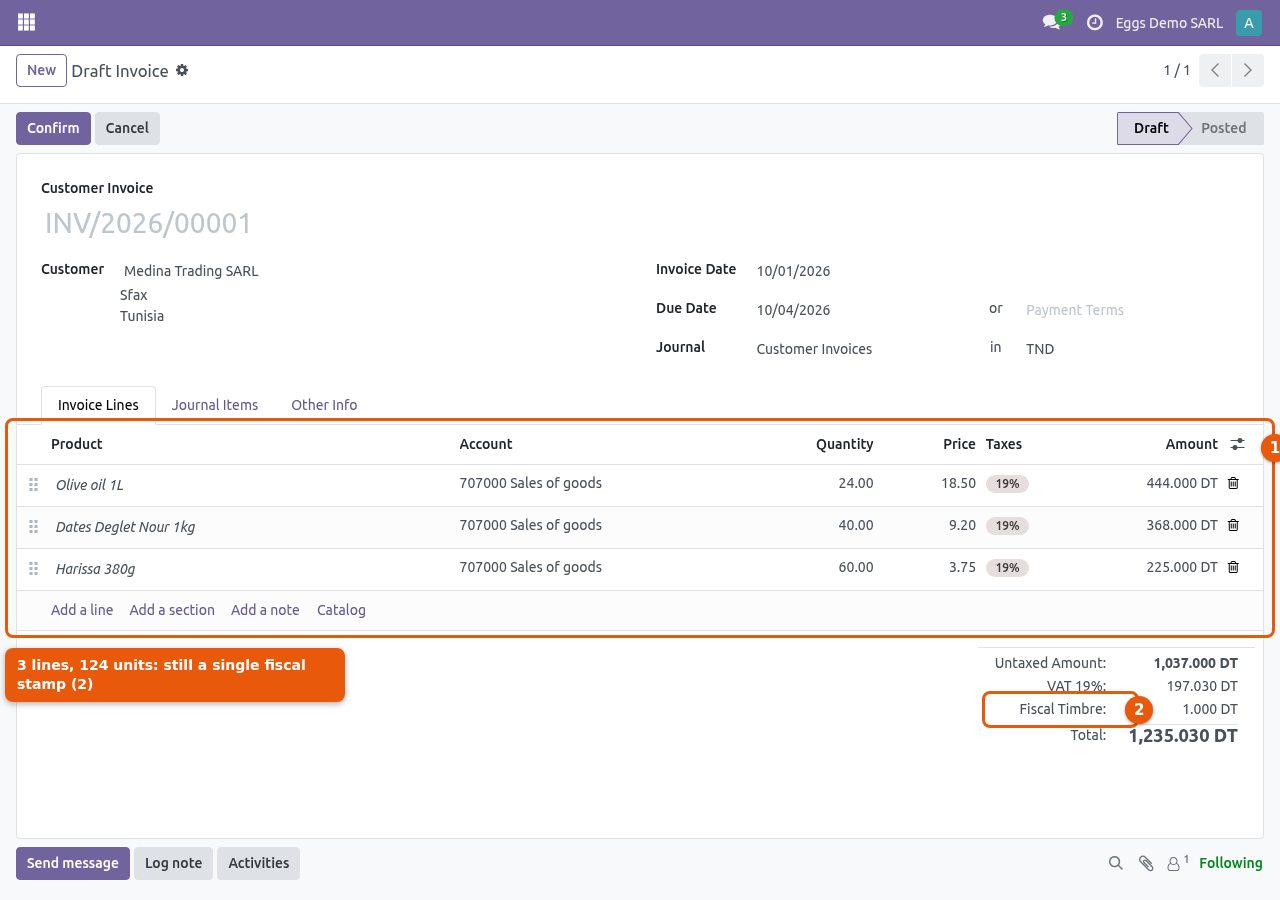
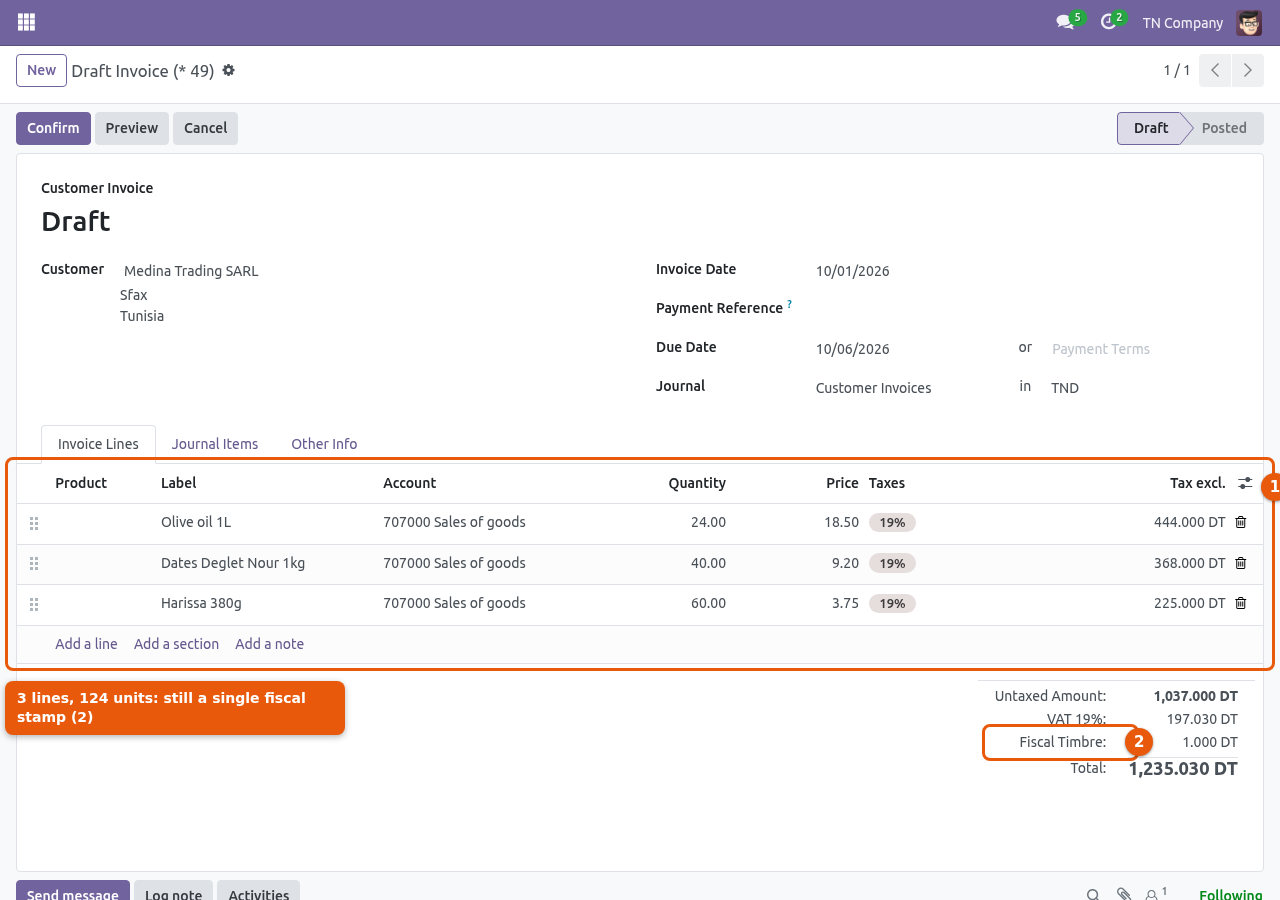
[IMP] tax_auto_on_invoice: 17.0 screenshots, store page and cover

diff --git a/tax_auto_on_invoice/README.rst b/tax_auto_on_invoice/README.rst
@@ -23,7 +23,7 @@ Fiscal Stamp per Invoice
     :target: http://www.gnu.org/licenses/lgpl-3.0-standalone.html
     :alt: License: LGPL-3
 .. |badge3| image:: https://img.shields.io/badge/github-Odoo-Eggs%2Fodooeggs--addons-lightgray.png?logo=github
-    :target: https://github.com/Odoo-Eggs/odooeggs-addons/tree/18.0/tax_auto_on_invoice
+    :target: https://github.com/Odoo-Eggs/odooeggs-addons/tree/17.0/tax_auto_on_invoice
     :alt: Odoo-Eggs/odooeggs-addons
 
 |badge1| |badge2| |badge3| 
@@ -60,7 +60,8 @@ Screenshots
 .. figure:: images/screenshot/stamp_tax_config.png
    :alt: Tax configuration
 
-   Check "Add once per invoice" on a fixed tax (here the Tunisian "1DT Tax stamp").
+   (1) Check "Add once per invoice" on a fixed tax (here the Tunisian "1DT Tax stamp");
+   (2) optionally, also on credit notes.
 
 .. figure:: images/screenshot/journal_items.png
    :alt: Journal items
@@ -99,6 +100,12 @@ Known issues / Roadmap
 Changelog
 =========
 
+17.0.1.0.0
+~~~~~~~~~~
+
+* First release for Odoo 17: same features as the 18.0 version, adapted to the
+  Odoo 17 tax engine.
+
 18.0.1.0.0
 ~~~~~~~~~~
 
@@ -122,7 +129,7 @@ Contributors
 Maintainers
 ~~~~~~~~~~~
 
-This module is part of the `Odoo-Eggs/odooeggs-addons <https://github.com/Odoo-Eggs/odooeggs-addons/tree/18.0/tax_auto_on_invoice>`_ project on GitHub.
+This module is part of the `Odoo-Eggs/odooeggs-addons <https://github.com/Odoo-Eggs/odooeggs-addons/tree/17.0/tax_auto_on_invoice>`_ project on GitHub.
 
 
 You are welcome to contribute.

diff --git a/tax_auto_on_invoice/readme/SCREENSHOTS.rst b/tax_auto_on_invoice/readme/SCREENSHOTS.rst
@@ -6,7 +6,8 @@
 .. figure:: images/screenshot/stamp_tax_config.png
    :alt: Tax configuration
 
-   Check "Add once per invoice" on a fixed tax (here the Tunisian "1DT Tax stamp").
+   (1) Check "Add once per invoice" on a fixed tax (here the Tunisian "1DT Tax stamp");
+   (2) optionally, also on credit notes.
 
 .. figure:: images/screenshot/journal_items.png
    :alt: Journal items

diff --git a/tax_auto_on_invoice/readme/HISTORY.rst b/tax_auto_on_invoice/readme/HISTORY.rst
@@ -1,3 +1,9 @@
+17.0.1.0.0
+~~~~~~~~~~
+
+* First release for Odoo 17: same features as the 18.0 version, adapted to the
+  Odoo 17 tax engine.
+
 18.0.1.0.0
 ~~~~~~~~~~
 
